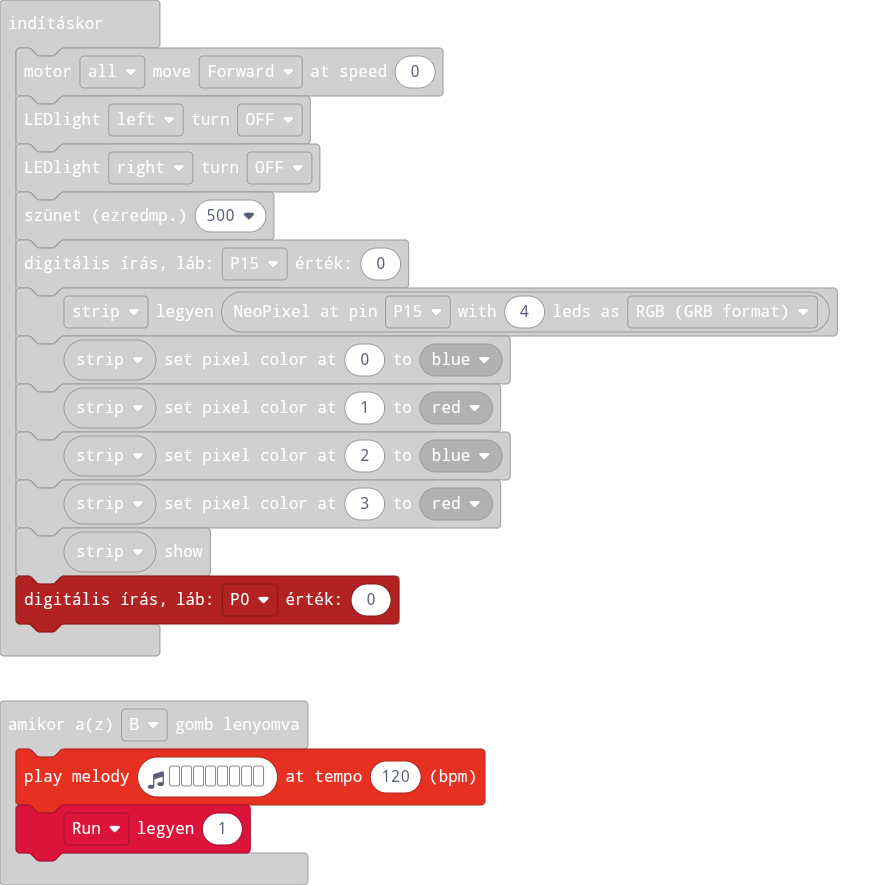
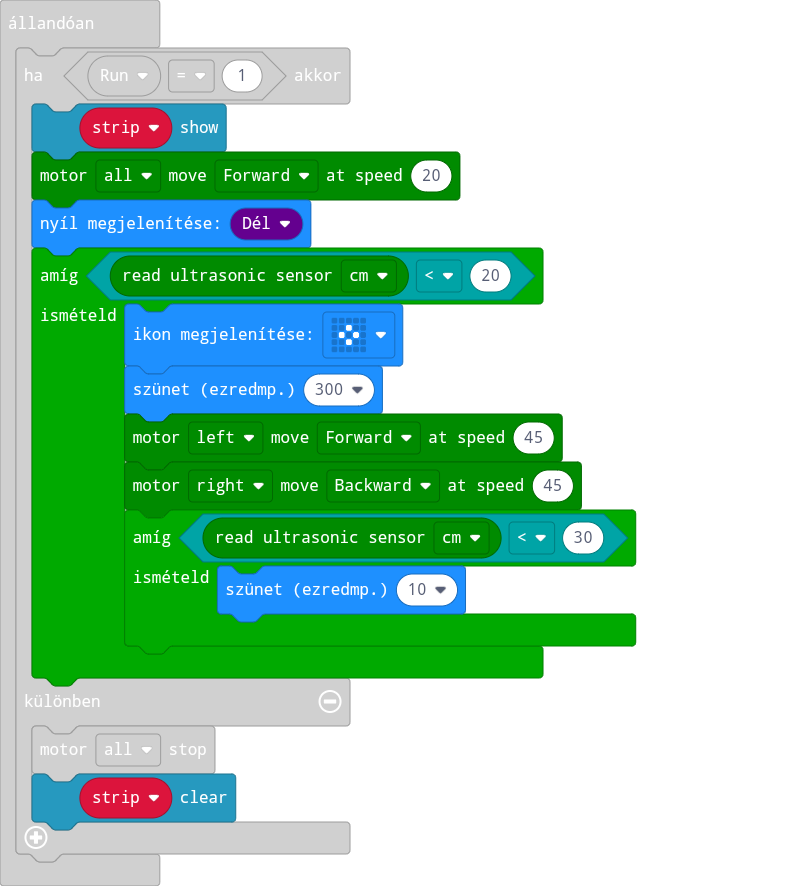
Update main.blocks, main.ts

diff --git a/main.ts b/main.ts
@@ -20,6 +20,7 @@ strip.show()
 pins.digitalWritePin(DigitalPin.P0, 0)
 basic.forever(function () {
     if (Run == 1) {
+        strip.show()
         maqueen.motorRun(maqueen.Motors.All, maqueen.Dir.CW, 20)
         basic.showArrow(ArrowNames.South)
         while (maqueen.Ultrasonic(PingUnit.Centimeters) < 20) {
@@ -33,6 +34,7 @@ basic.forever(function () {
         }
     } else {
         maqueen.motorStop(maqueen.Motors.All)
+        strip.clear()
     }
 })
 basic.forever(function () {
